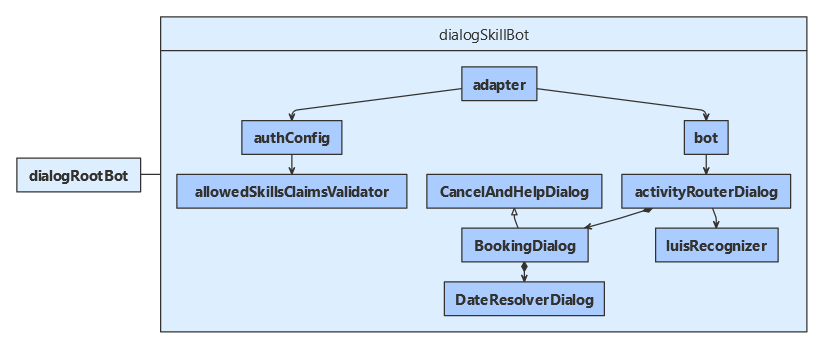
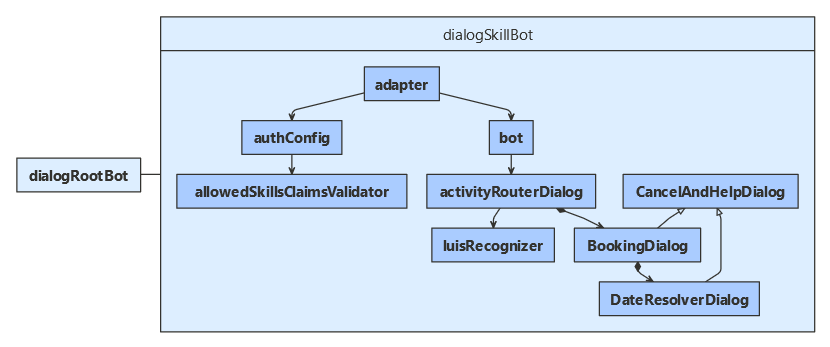
Add C# diagram, update JS, Python diagrams.

diff --git a/art-source/nomnoml/81.skills-skilldialog.md b/art-source/nomnoml/81.skills-skilldialog.md
@@ -98,10 +98,11 @@ Flow diagrams for sample 81.skills-skilldialog, used for articles in the HowTo \
  [adapter]->[bot]
  [authConfig]->[allowedSkillsClaimsValidator]
  [bot]->[activityRouterDialog]
- [activityRouterDialog]+->[BookingDialog]
  [activityRouterDialog]->[luisRecognizer]
+ [activityRouterDialog]+->[BookingDialog]
  [CancelAndHelpDialog]<:-[BookingDialog]
  [BookingDialog]+->[DateResolverDialog]
+ [CancelAndHelpDialog]<:-[DateResolverDialog]
 ]
 
 [dialogRootBot]-[dialogSkillBot]
@@ -127,10 +128,11 @@ Flow diagrams for sample 81.skills-skilldialog, used for articles in the HowTo \
  [ADAPTER]->[BOT]
  [AuthenticationConfiguration]->[VALIDATOR]
  [BOT]->[ROUTER]
- [ROUTER]+->[BookingDialog]
  [ROUTER]->[RECOGNIZER]
+ [ROUTER]+->[BookingDialog]
  [CancelAndHelpDialog]<:-[BookingDialog]
  [BookingDialog]+->[DateResolverDialog]
+ [CancelAndHelpDialog]<:-[DateResolverDialog]
 ]
 
 [dialog-root-bot]-[dialog-skill-bot]
